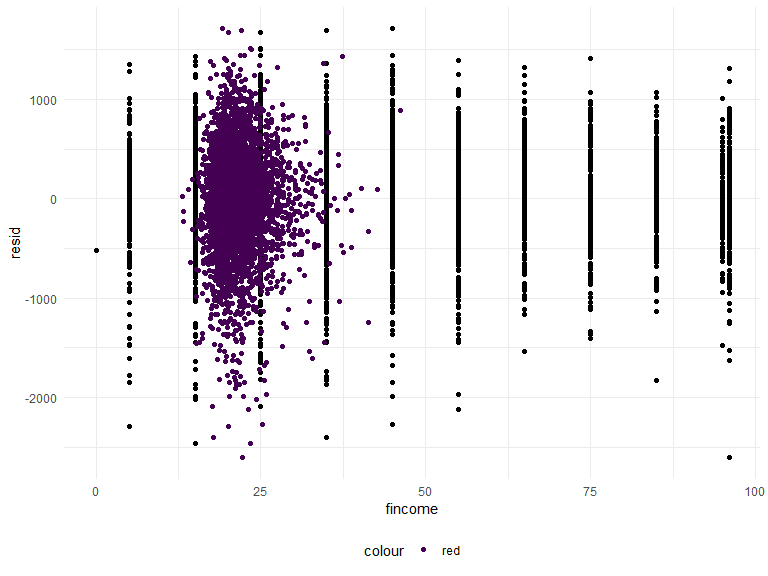
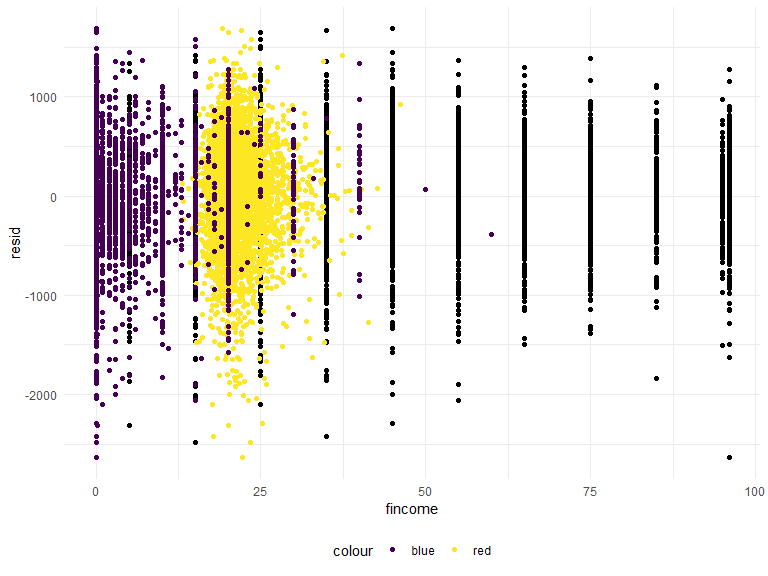
modified problem 1 model 1 and the comparison with other two models.

diff --git a/p8105_hw6_yh3430.md b/p8105_hw6_yh3430.md
@@ -80,7 +80,13 @@ sum(is.na(birthweight_data))
 
     ## [1] 0
 
-Let’s make a plot to see some data
+Let’s make a plot to see some data. Based on my knowledge, I first
+select the family monthly income, average number of cigarettes smoked
+per day during pregnancy, and mother’s pre-pregnancy BMI as the
+predictor. From the figure below, the distribution of fincome and smoken
+looks good, but the distribution of ppbmi gathered relatively together.
+I think it is ok to start a simple linear model based on these three
+factors.
 
 ``` r
 birthweight_data %>% 
@@ -92,38 +98,47 @@ birthweight_data %>%
 
 ``` r
 birthweight_data %>% 
-  ggplot(aes(x = ppbmi, y = bwt)) +
+  ggplot(aes(x = smoken, y = bwt)) +
   geom_point()
 ```
 
 <img src="p8105_hw6_yh3430_files/figure-gfm/unnamed-chunk-4-2.png" width="90%" />
 
+``` r
+birthweight_data %>% 
+  ggplot(aes(x = ppbmi, y = bwt)) +
+  geom_point()
+```
+
+<img src="p8105_hw6_yh3430_files/figure-gfm/unnamed-chunk-4-3.png" width="90%" />
+
 Let’s fit a linear model
 
 ``` r
-fit_df = lm(bwt ~ fincome + ppbmi, data = birthweight_data)
+fit_df = lm(bwt ~ fincome + smoken + ppbmi, data = birthweight_data)
 summary(fit_df)
 ```
 
     ## 
     ## Call:
-    ## lm(formula = bwt ~ fincome + ppbmi, data = birthweight_data)
+    ## lm(formula = bwt ~ fincome + smoken + ppbmi, data = birthweight_data)
     ## 
     ## Residuals:
     ##      Min       1Q   Median       3Q      Max 
-    ## -2604.24  -291.75    13.29   326.34  1711.33 
+    ## -2636.95  -292.02    15.97   322.15  1685.98 
     ## 
     ## Coefficients:
     ##              Estimate Std. Error t value Pr(>|t|)    
-    ## (Intercept) 2641.1589    54.2260  48.707  < 2e-16 ***
-    ## fincome        3.0863     0.2944  10.485  < 2e-16 ***
-    ## ppbmi         15.6290     2.4028   6.504 8.68e-11 ***
+    ## (Intercept) 2657.9737    54.0840  49.145  < 2e-16 ***
+    ## fincome        3.2235     0.2941  10.961  < 2e-16 ***
+    ## smoken        -6.1574     1.0311  -5.972 2.53e-09 ***
+    ## ppbmi         15.7523     2.3934   6.582 5.21e-11 ***
     ## ---
     ## Signif. codes:  0 '***' 0.001 '**' 0.01 '*' 0.05 '.' 0.1 ' ' 1
     ## 
-    ## Residual standard error: 503.7 on 4339 degrees of freedom
-    ## Multiple R-squared:  0.03332,    Adjusted R-squared:  0.03287 
-    ## F-statistic: 74.77 on 2 and 4339 DF,  p-value: < 2.2e-16
+    ## Residual standard error: 501.7 on 4338 degrees of freedom
+    ## Multiple R-squared:  0.0412, Adjusted R-squared:  0.04054 
+    ## F-statistic: 62.14 on 3 and 4338 DF,  p-value: < 2.2e-16
 
 Diagnostics
 
@@ -131,7 +146,8 @@ Diagnostics
 add_residuals(birthweight_data, fit_df) %>% 
   ggplot(aes(x = fincome, y = resid)) +
   geom_point() +
-  geom_point(aes(x = ppbmi, color = "red"))
+  geom_point(aes(x = ppbmi, color = "red")) +
+  geom_point(aes(x = smoken, color = "blue"))
 ```
 
 <img src="p8105_hw6_yh3430_files/figure-gfm/unnamed-chunk-6-1.png" width="90%" />
@@ -224,7 +240,7 @@ fit models and extract RMSE
 cv_df1_RMSE =
   cv_df_p1 %>% 
   mutate(
-    mod_df1 = map(.x = train, ~lm(bwt ~ fincome + ppbmi, data = .x)),
+    mod_df1 = map(.x = train, ~lm(bwt ~ fincome + smoken + ppbmi, data = .x)),
     mod_df2 = map(.x = train, ~lm(bwt ~ blength + gaweeks, data = .x)),
     mod_df3 = map(.x = train, ~lm(bwt ~ babysex + bhead + blength + babysex * bhead + babysex * blength + bhead * blength + babysex * bhead * blength, data = .x))
   ) %>% 
@@ -308,7 +324,7 @@ weather_bootstrap_results %>%
     ## # A tibble: 1 x 2
     ##   ci_lower ci_upper
     ##      <dbl>    <dbl>
-    ## 1    0.893    0.927
+    ## 1    0.894    0.927
 
 Part 2 log(β<sup>0∗β</sup>1) CI
 
